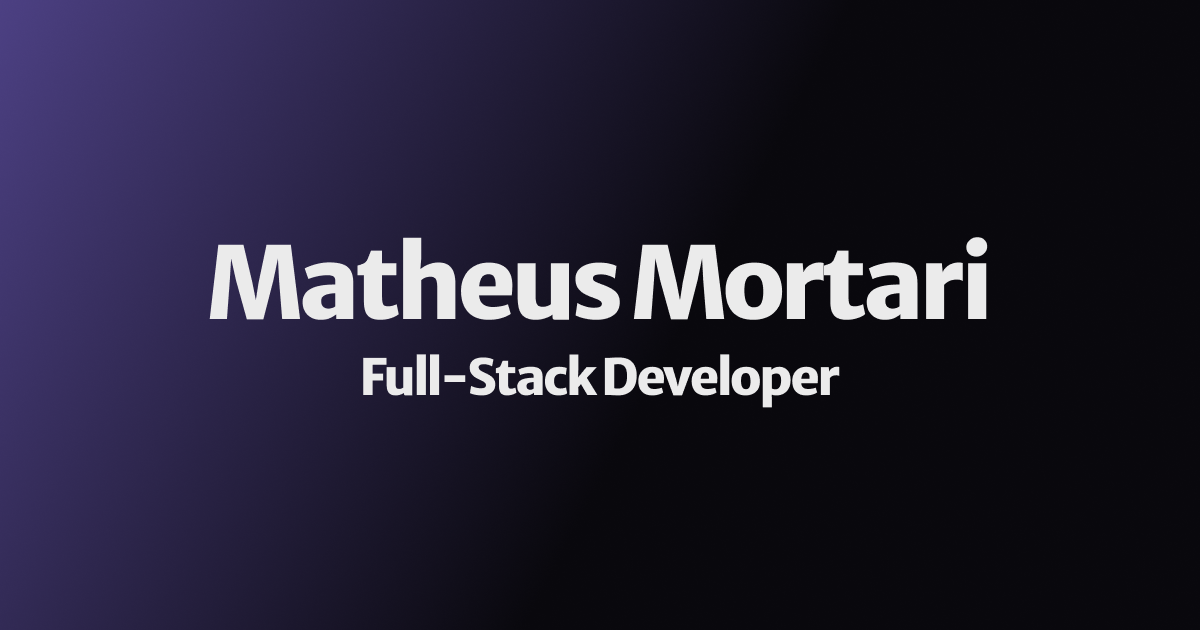
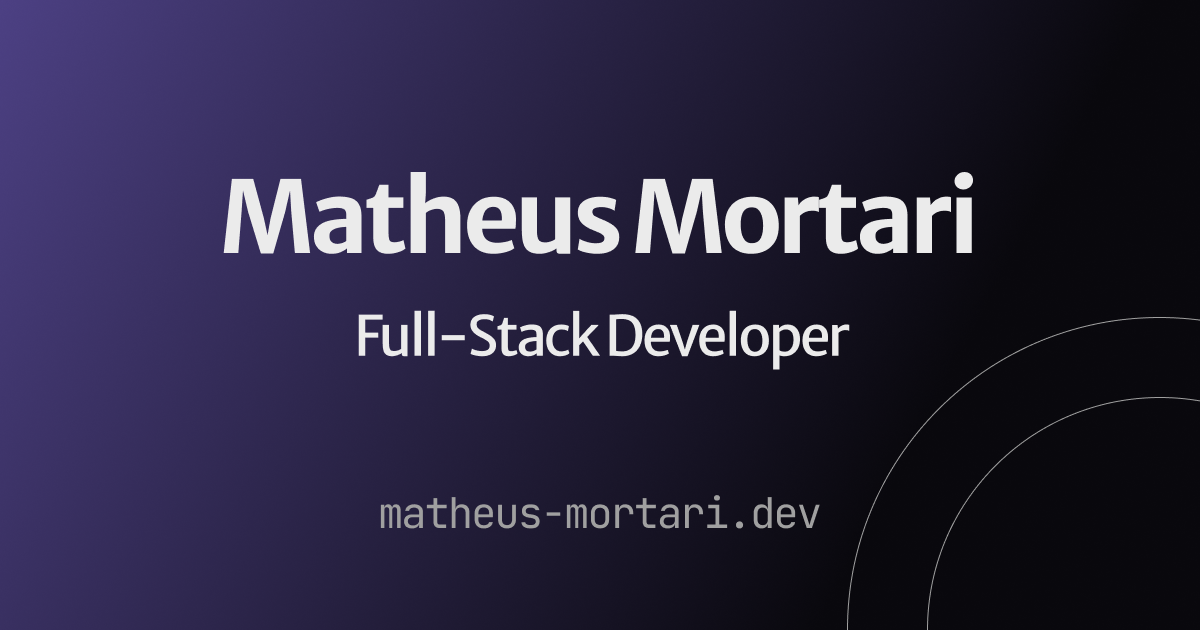
chore(seo), chore: update brand assets; update README

Changed region(s): [[0.1542, 0.0, 0.8325, 1.0]]

diff --git a/README.md b/README.md
@@ -9,7 +9,15 @@ These are the technologies and tools I frequently use in my projects:
 - **Programming Languages:** TypeScript, Go.
 - **Web Development:** Vue.js, Nuxt, Tailwind, Pinia.
 - **Backend and Databases:** Node.js, PostgreSQL, Redis, Prisma.
-- **Development Tools:** ESLint, Git, Docker.
+- **Development Tools:** Git, Docker.
+
+## Projects
+
+These are my flagship projects:
+
+- **WindKeep** ([**Demo**](https://windkeep.up.railway.app) | [**Code**](https://github.com/matimortari/windkeep)) — A secure, multi-tenant secrets management platform featuring role-based access control (RBAC), encrypted storage, audit routines, and a companion CLI.
+
+- **LinKiwi** ([**Demo**](https://linkiwi.up.railway.app) | [**Code**](https://github.com/matimortari/linkiwi)) — A personal landing page builder featuring visual customization, third-party integrations, and an analytics module with real-time aggregated metrics.
 
 ## Contact
 
